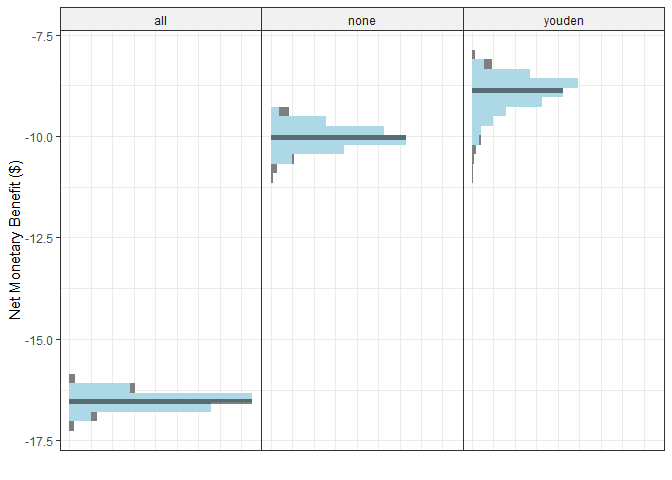
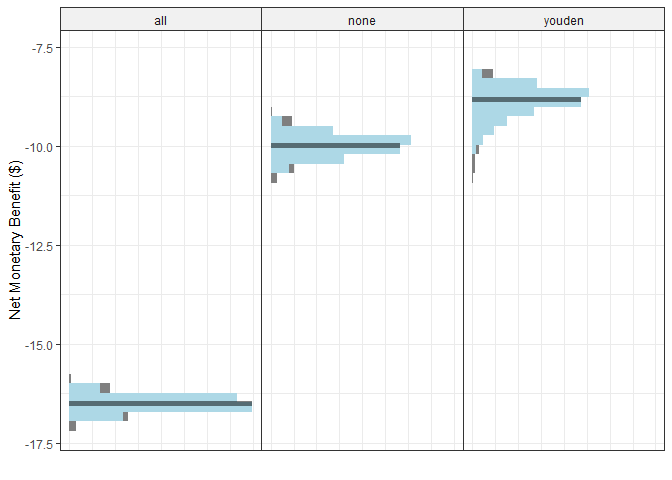
removing 'extra_theme' in place of '+ theme_sim()'

diff --git a/README.md b/README.md
@@ -133,9 +133,11 @@ single_sim_obj <- sim_screen_obj$simulations[[6]]
 
 When plotting a single set of simulation inputs, we see the
 distributions of the NMB across all simulations under each strategy.
+Note that we have added some tasteful themes using `theme_sim()` that
+help reduce clutter on these types of plots.
 
 ``` r
-autoplot(single_sim_obj)
+autoplot(single_sim_obj) + theme_sim()
 ```
 
 <img src="man/figures/README-unnamed-chunk-9-1.png" width="100%" />
